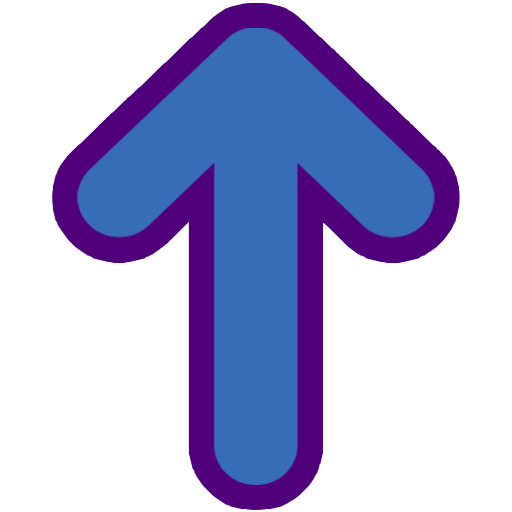
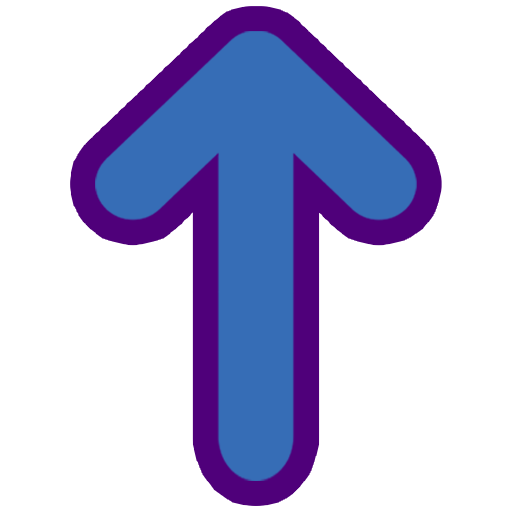
commit

diff --git a/style.css b/style.css
@@ -95,20 +95,20 @@ td {
     width: fit-content;
     margin: auto;
     position: relative;
-    left: -21px;
+    left: -23px;
 }
 
 #circle {
     width: 71px;
     height: 71px;
     position: absolute;
-    margin: 38px 0 0 -12px;
+    margin: 39px 0 0 -11px;
     content: url('asset/Circle.png');
 }
 
 .arrowup, .arrowdown, .arrowleft, .arrowright {
-    width: 47px;
-    height: 47px;
+    width: 50px;
+    height: 50px;
     position: absolute;
     cursor: pointer;
     content: url('asset/Arrow.png');
@@ -131,17 +131,17 @@ td {
 }
 
 .arrowup:active, .arrowup.active {
-    transform: translate(0, -5px);
+    transform: translate(0, -4px);
 }
 
 .arrowdown:active, .arrowdown.active {
-    transform: rotate(180deg) translate(0, -5px);
+    transform: rotate(180deg) translate(0, -4px);
 }
 
 .arrowleft:active, .arrowleft.active {
-    transform: rotate(-90deg) translate(0, -5px);
+    transform: rotate(-90deg) translate(0, -4px);
 }
 
 .arrowright:active, .arrowright.active {
-    transform: rotate(90deg) translate(0, -5px);
+    transform: rotate(90deg) translate(0, -4px);
 }
